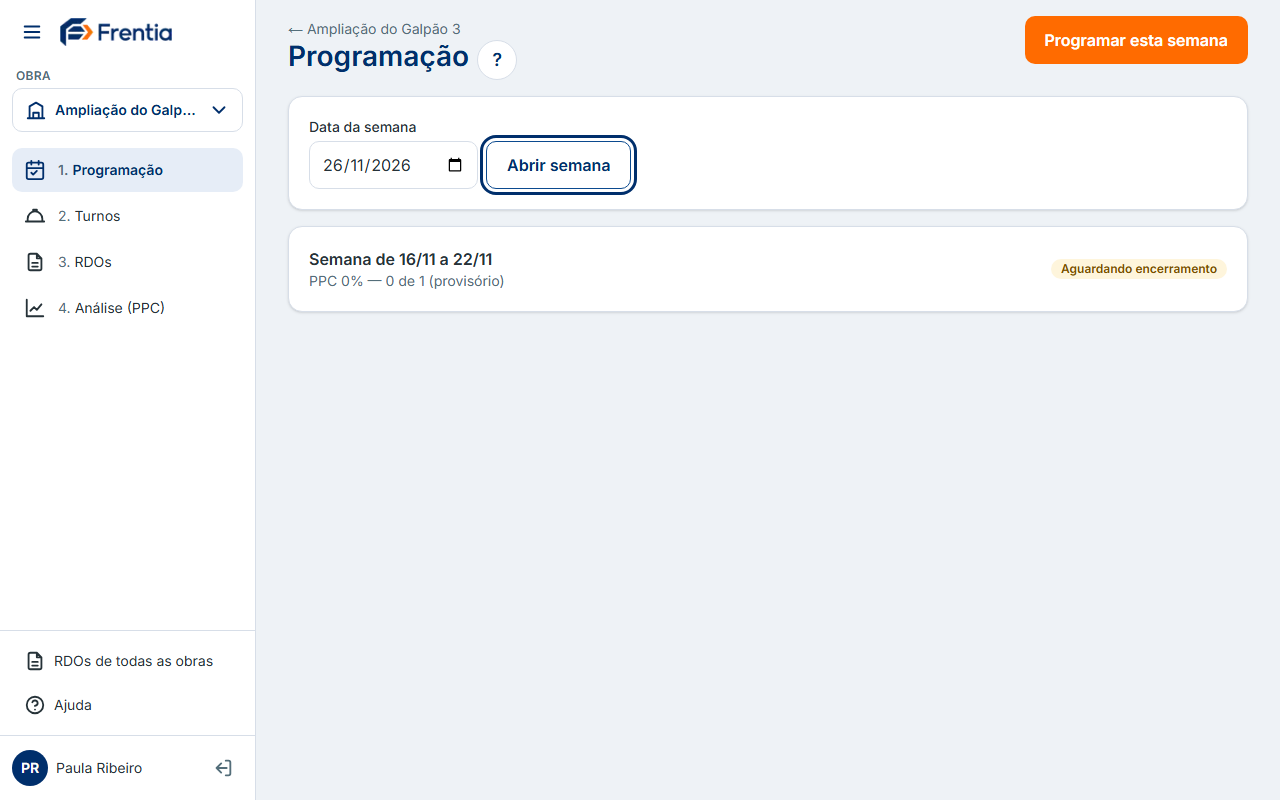
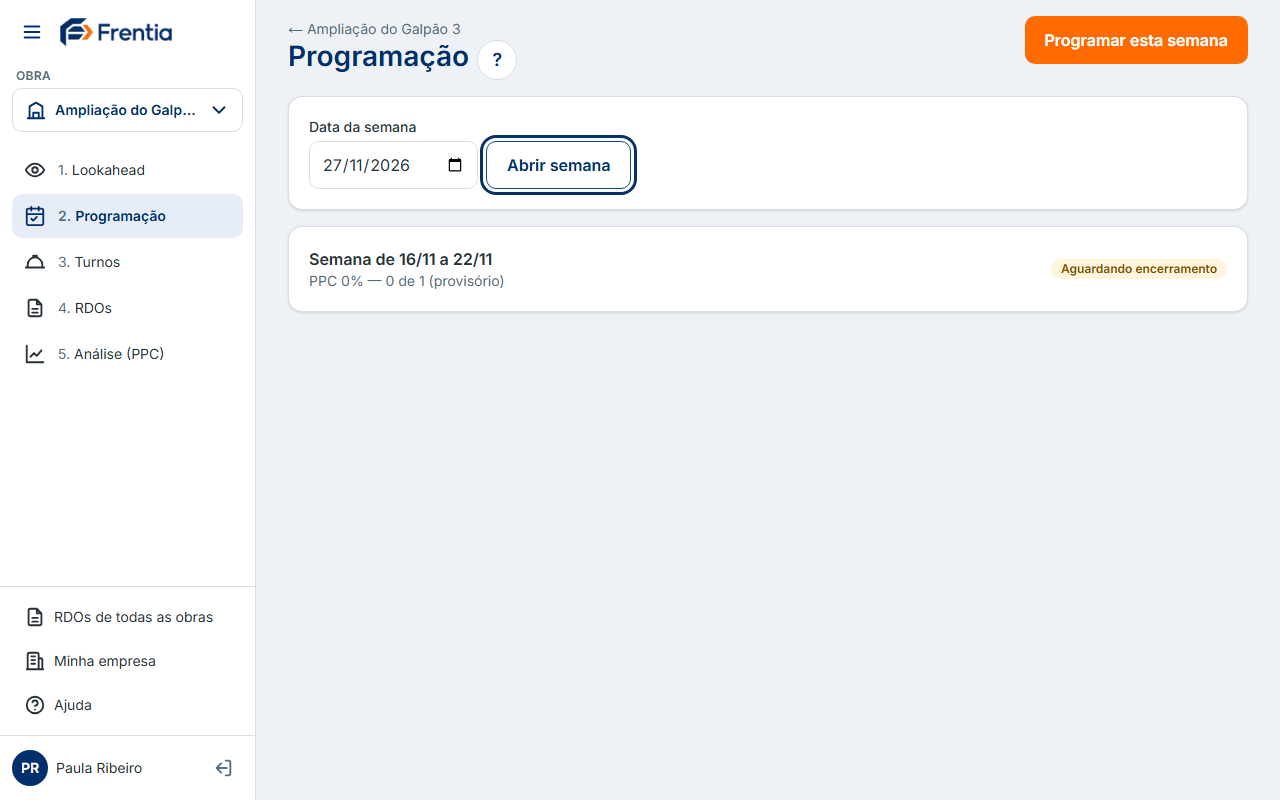
docs(ajuda): lookahead no capítulo Programar a semana

diff --git a/lib/ajuda/conteudo/programar-semana.ts b/lib/ajuda/conteudo/programar-semana.ts
@@ -3,9 +3,38 @@ import type { Capitulo } from "../tipos";
 export const programarSemana: Capitulo = {
   slug: "programar-semana",
   titulo: "Programar a semana",
-  resumo: "Monte a programação da semana com meta, dias, equipe prevista e responsável de cada atividade.",
+  resumo: "Olhe as próximas semanas no Lookahead e monte a programação da semana com meta, dias, equipe prevista e responsável de cada atividade.",
   noIndice: false,
   passos: [
+    {
+      id: "lookahead",
+      titulo: "Olhe as próximas semanas no Lookahead",
+      texto: [
+        "Na etapa \"Lookahead\" do menu, veja o que vem nas próximas 3 a 6 semanas (escolha 3, 4, 5 ou 6 no topo). Cada semana lista os itens do cronograma cujo período cai nela; um item longo aparece em todas as semanas que cobre.",
+        "Para trazer o cronograma da contratada, exporte do Project ou do Primavera em Excel (.xlsx) ou CSV e use \"Subir cronograma\". O Frentia adivinha as colunas (código/EDT, nome, início, término e, se houver, local, quantidade e unidade) e mostra uma prévia: quantos itens são novos, quantos mudaram, quantos saem do cronograma e quais linhas foram ignoradas.",
+        "Quando o cronograma for revisado, suba o arquivo de novo: cada linha é reconhecida pelo código. O que mudou é atualizado, o que sumiu fica como \"Saiu do cronograma\" e nada que já foi levado para uma semana é apagado.",
+        "Sem cronograma? Use \"Adicionar item\" e monte o lookahead à mão (descrição, início e término). Itens manuais podem ser editados e apagados; os importados seguem o arquivo.",
+      ],
+      captura: {
+        alt: "Lookahead com as próximas semanas e os itens do cronograma em cada uma",
+        alvo: { papel: "heading", nome: "Lookahead" },
+        dispositivo: "computador",
+      },
+    },
+    {
+      id: "levar-lookahead",
+      titulo: "Leve o item para a semana",
+      texto: [
+        "Em \"Levar para esta semana\", o Frentia abre a programação daquela semana (cria o rascunho se ainda não existe) com o formulário preenchido: descrição, local, unidade, dias do período e meta igual à quantidade do item. Ajuste a meta, o responsável e a equipe para o que cabe na semana.",
+        "Para quebrar um item grande em partes, leve-o de novo e mude a descrição e a meta. No Lookahead, o item passa a mostrar \"Na semana de dd/mm\"; se o cronograma mudar depois, aparece \"Mudou desde que foi levado\" (a atividade da semana não muda sozinha).",
+        "Semana já programada não recebe itens do lookahead.",
+      ],
+      captura: {
+        alt: "Item do lookahead com o botão Levar para esta semana",
+        alvo: { papel: "button", nome: "Levar para esta semana" },
+        dispositivo: "computador",
+      },
+    },
     {
       id: "abrir-programacao",
       titulo: "Abra a programação da semana",

diff --git a/tests/manual/capturas.spec.ts b/tests/manual/capturas.spec.ts
@@ -1,6 +1,7 @@
 // Roteiro das capturas do manual: monta a obra de exemplo e fotografa cada passo de lib/ajuda/.
 // Rodar: SUPABASE_TEST=1 npm run manual:capturas   (um capítulo só: MANUAL_CAPITULO=check-in ...)
 import { devices, expect, test, type Browser, type Page } from "@playwright/test";
+import { importarCronograma, salvarItemManual } from "@/lib/db/cronograma";
 import { criarRascunho, programarSemana, salvarAtividadeProgramada, obterSemana } from "@/lib/db/programacao";
 import { inicioDaSemana } from "@/lib/dominio/analise";
 import { diaDaSemana, somarDias, type DiaSemana } from "@/lib/dominio/programacao";
@@ -93,6 +94,20 @@ test("capturas do manual", async ({ browser, page: pl, request }) => {
   if (!pintura.ok) throw new Error(pintura.erro);
   const prog = await programarSemana(c, anterior.dados.id);
   if (!prog.ok) throw new Error(prog.erro);
+
+  // ---------- Lookahead (item 5.1): cronograma da contratada + um item manual ----------
+  const prox = somarDias(inicio, 7);
+  const crono = await importarCronograma(c, obraId, "cronograma-montagem.xlsx", { codigo: 0, descricao: 1, inicio: 2, fim: 3 }, [
+    { codigo: "3.1.1", descricao: "Montar tubulação da linha 3 — trecho A", inicio: somarDias(prox, 1), fim: somarDias(prox, 4), local: "Pipe rack 2", unidade: "m", quantidade: 180 },
+    { codigo: "3.1.2", descricao: "Teste hidrostático da linha 3", inicio: somarDias(prox, 9), fim: somarDias(prox, 10), local: "Pipe rack 2", unidade: null, quantidade: null },
+    { codigo: "3.2.1", descricao: "Montar suportes da linha 5", inicio: somarDias(prox, 7), fim: somarDias(prox, 18), local: "Pipe rack 3", unidade: "un", quantidade: 40 },
+  ]);
+  if (!crono.ok) throw new Error(crono.erro);
+  const manual = await salvarItemManual(c, obraId, { descricao: "Liberar PT da área 2 com o cliente", inicio: prox, fim: prox, local: null, unidade: null, quantidade: null });
+  if (!manual.ok) throw new Error(manual.erro);
+  await pl.goto(`${obraUrl}/lookahead`);
+  await fotografar(pl, "programar-semana", "lookahead");
+  await fotografar(pl, "programar-semana", "levar-lookahead");
 
   // ---------- Programar a semana ----------
   await pl.goto(`${obraUrl}/programacao`);

diff --git a/app/(app)/obras/[obraId]/lookahead/page.tsx b/app/(app)/obras/[obraId]/lookahead/page.tsx
@@ -1,3 +1,4 @@
+import { BotaoAjuda } from "@/components/ajuda/BotaoAjuda";
 import Link from "next/link";
 import { notFound } from "next/navigation";
 import { Cartao } from "@/components/ui/Cartao";
@@ -56,7 +57,10 @@ export default async function LookaheadPage({
         <Link href={`/obras/${obra.id}`} className="text-sm text-texto-suave hover:underline">
           ← {obra.nome}
         </Link>
-        <h1 className="text-titulo font-semibold text-primaria">Lookahead</h1>
+        <div className="flex items-start justify-between gap-2">
+          <h1 className="text-titulo font-semibold text-primaria">Lookahead</h1>
+          <BotaoAjuda tela="lookahead" />
+        </div>
         <p className="text-sm text-texto-suave">
           O que vem nas próximas semanas, para destravar antes de programar.
         </p>
@@ -75,7 +79,7 @@ export default async function LookaheadPage({
           </nav>
           <p className="text-sm text-texto-suave">
             {ultima
-              ? `Última importação: ${ultima.arquivo_nome} em ${formatarData(ultima.created_at.slice(0, 10))} às ${new Date(ultima.created_at).toLocaleTimeString("pt-BR", { hour: "2-digit", minute: "2-digit", timeZone: "America/Sao_Paulo" })}`
+              ? `Última importação: ${ultima.arquivo_nome} em ${new Date(ultima.created_at).toLocaleString("pt-BR", { day: "2-digit", month: "2-digit", year: "numeric", timeZone: "America/Sao_Paulo" })} às ${new Date(ultima.created_at).toLocaleTimeString("pt-BR", { hour: "2-digit", minute: "2-digit", timeZone: "America/Sao_Paulo" })}`
               : "Nenhum cronograma importado — adicione itens à mão ou suba o arquivo do Project/Primavera em Excel ou CSV."}
           </p>
           <div className="flex flex-wrap gap-2">

diff --git a/lib/ajuda/novidades.ts b/lib/ajuda/novidades.ts
@@ -4,6 +4,11 @@ import type { Novidade } from "./tipos";
 export const NOVIDADES: Novidade[] = [
   {
     data: "2026-11-27",
+    texto: "Lookahead: veja as próximas 3 a 6 semanas, suba o cronograma do Project ou Primavera (Excel/CSV) ou adicione itens à mão, e leve cada item para a programação da semana.",
+    href: "/ajuda/programar-semana#lookahead",
+  },
+  {
+    data: "2026-11-27",
     texto: "Relatório da Obra em PDF: na etapa \"RDOs\", escolha semana, mês ou obra inteira e baixe um documento com a linha do tempo, HH, paradas (externas × internas), serviços extras com a ciência do cliente e fotos.",
     href: "/ajuda/fechar-turno#relatorio-obra",
   },

diff --git a/lib/ajuda/destino.ts b/lib/ajuda/destino.ts
@@ -4,6 +4,7 @@ import type { SlugCapitulo } from "./tipos";
 
 export type TelaAjuda =
   | "obras"
+  | "lookahead"
   | "programacao"
   | "encerrar-semana"
   | "turno-planejado"
@@ -15,6 +16,7 @@ export type TelaAjuda =
 
 const CAPITULO_DA_TELA: Record<TelaAjuda, SlugCapitulo> = {
   obras: "primeiros-passos",
+  lookahead: "programar-semana",
   programacao: "programar-semana",
   "encerrar-semana": "encerrar-semana",
   "turno-planejado": "check-in",

diff --git a/lib/ajuda/fluxograma.ts b/lib/ajuda/fluxograma.ts
@@ -17,6 +17,12 @@ export const FLUXOGRAMA: FaseFluxo[] = [
     linhas: [
       [
         {
+          rotulo: "Olhar o Lookahead",
+          detalhe: "cronograma ou itens à mão",
+          ator: "planejador",
+          href: "/ajuda/programar-semana#lookahead",
+        },
+        {
           rotulo: "Programar a semana",
           detalhe: "meta, dias, equipe, responsável",
           ator: "planejador",
